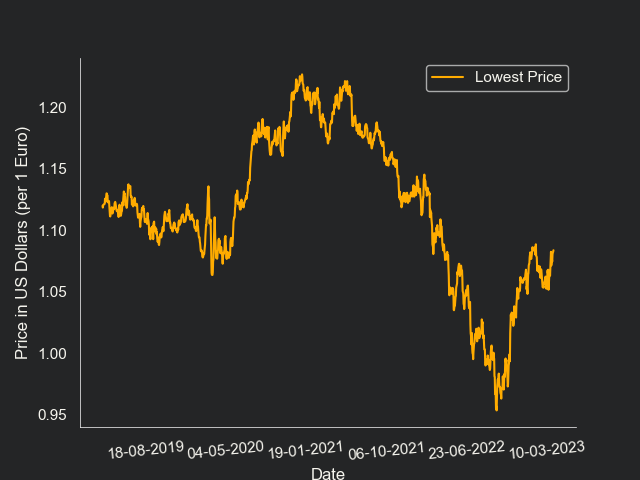
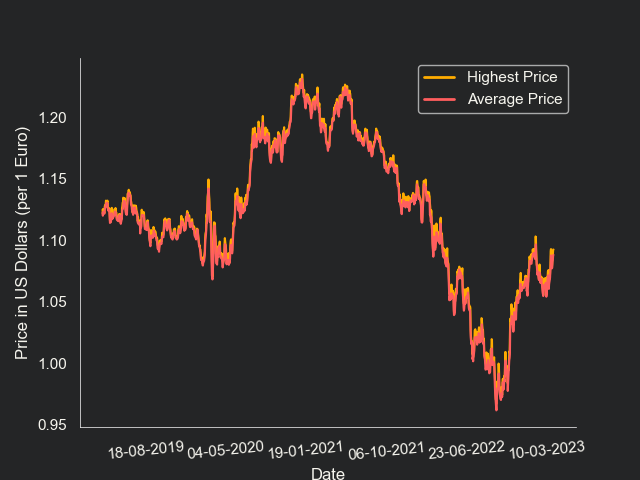
Added multiple line graphs

diff --git a/frontend/app.js b/frontend/app.js
@@ -6,16 +6,15 @@ function generateGraph() {
     var selectedValue_data_type = selectElement.value;
 
     // Assuming you have the radio button elements with the same name attribute
-    var radioButtons = document.getElementsByName("price");
+    var checkboxButtons = document.getElementsByName("price");
 
     // Initialize a variable to store the selected value
-    var selectedValue_price;
+    var selectedValue_price = ["","",""];
 
     // Loop through the radio buttons to find the selected one
-    for (var i = 0; i < radioButtons.length; i++) {
-        if (radioButtons[i].checked) {
-            selectedValue_price = radioButtons[i].value;
-            break; // Exit the loop once a checked radio button is found
+    for (var i = 0; i < checkboxButtons.length; i++) {
+        if (checkboxButtons[i].checked) {
+            selectedValue_price[i] = checkboxButtons[i].value;
         }
     }
     // Assuming you have the radio button elements with the same name attribute

diff --git a/frontend/index.html b/frontend/index.html
@@ -38,13 +38,13 @@
                 <div class="subtitle">Prices</div>
                 <br>
                 <label>
-                    <input type="radio" name="price" value="High"> High
+                    <input type="checkbox" name="price" value="High"> High
                 </label>
                 <label>
-                    <input type="radio" name="price" value="Low"> Low
+                    <input type="checkbox" name="price" value="Low"> Low
                 </label>
                 <label>
-                    <input type="radio" name="price" value="Avg" checked> Average
+                    <input type="checkbox" name="price" value="Avg" checked> Average
                 </label>
             </div>
             

diff --git a/frontend/styles.css b/frontend/styles.css
@@ -38,8 +38,6 @@ body {
     padding: 10px;
 }
 
-/* Rest of your CSS styles... */
-
 /* Style for the graph options container */
 #graphOptionsContainer {
     max-width: 1000px;

diff --git a/Backend/plot.py b/Backend/plot.py
@@ -1,28 +1,38 @@
 import matplotlib.pyplot as plt, matplotlib.dates as mdates
 import seaborn as sns
 import pandas as pd
+from matplotlib.lines import Line2D
 
 
-def plot_graph(working_directory, csv_name,table, date_type, price_type, y_axis):
-    legend = ""
+def plot_graph(working_directory, csv_name, table, date_type, price_types, y_axis):
+    print("Starting render")
+    legend = ["", "", ""]
     df = pd.read_csv(working_directory + 'fy19-23/' + csv_name)
     df['Date'] = pd.to_datetime(df['Date'], format='%Y%m%d')
     # data_type = 'Y', 'M', 'D'
     # price_type = 'High', 'Low', 'Avg'
-    if price_type == 'High':
-        d = df.groupby(pd.Grouper(key='Date', freq=date_type))[price_type].max()
-        table['Highest Price'] = d
-        legend = 'Highest Price'
-    elif price_type == 'Low':
-        d = df.groupby(pd.Grouper(key='Date', freq=date_type))[price_type].min()
-        table['Lowest Price'] = d
-        legend = 'Lowest Price'
-    else:
-        d = df.groupby(pd.Grouper(key='Date', freq=date_type))[['Open','High','Low','Close']].mean().iloc[:,:].mean(axis=1)
-        table['Average Price'] = d
-        legend = 'Average Price'
+    counter = 0
 
-    table["Date"] = table.index
+    print("While loop")
+    while counter < len(price_types):
+        print("Run ", counter)
+        if price_types[counter] == 'High':
+            d = df.groupby(pd.Grouper(key='Date', freq=date_type))[price_types[counter]].max()
+            table[counter]['Highest Price'] = d
+            legend[counter] = 'Highest Price'
+        elif price_types[counter] == 'Low':
+            d = df.groupby(pd.Grouper(key='Date', freq=date_type))[price_types[counter]].min()
+            table[counter]['Lowest Price'] = d
+            legend[counter] = 'Lowest Price'
+        else:
+            d = df.groupby(pd.Grouper(key='Date', freq=date_type))[['Open','High','Low','Close']].mean().iloc[:,:].mean(axis=1)
+            table[counter]['Average Price'] = d
+            legend[counter] = 'Average Price'
+
+        table[counter]["Date"] = table[counter].index
+        counter = counter + 1
+
+    print("After while loop")
 
     sns.set(rc={'axes.facecolor': '#242526',
                 'axes.labelcolor':'#F6F5EE',
@@ -35,10 +45,34 @@ def plot_graph(working_directory, csv_name,table, date_type, price_type, y_axis)
                 'grid.color': '#242526',
                 'figure.facecolor': '#242526',
                 'text.color':'#F6F5EE'})
-    sns.set_palette(["#ffac00"])
+    #sns.set_palette(["#ffac00", "#990000", "#009900"])
     #print(pd.melt(table, ['Date']))
-    sns.lineplot(x='Date', y='value', hue='variable',data=pd.melt(table, ['Date']))
-    plt.legend(labels=[legend])
+    price_labels = {
+        'High': 'Highest Price',
+        'Low': 'Lowest Price',
+        'Avg': 'Average Price',
+    }
+
+    palettes = ["#ffac00", "#FF5E5E", "#029666"]
+
+    legend_labels = []
+    legend_colors = []
+
+    counter = 0
+    while counter < len(price_types):
+        sns.set_palette([palettes[counter]])
+        sns.lineplot(x='Date', y='value', hue='variable',data=pd.melt(table[counter], ['Date']))
+
+        # preparing labels
+        legend_labels.append(legend[counter])
+        legend_colors.append(palettes[counter])
+        
+        counter = counter + 1
+
+    legend_objects = [Line2D([0], [0], color=color, lw=2, label=label) for label, color in zip(legend_labels, legend_colors)]
+
+    plt.legend(handles=legend_objects)
+
     if date_type == 'M':
         plt.gca().xaxis.set_major_formatter(mdates.DateFormatter('%m-%Y'))
         plt.xlabel("Month")

diff --git a/Backend/app.py b/Backend/app.py
@@ -20,8 +20,20 @@ def get_image():
     #image_path = image_directory + '/pyramid_image.jpeg'
 
     data_type = request.args.get('data_type')
-    price = request.args.get('price')
+    price = request.args.get('price').split(',')
     time = request.args.get('time')
+
+    print(price)
+
+    price_no_empty = []
+
+    for price_temp in price:
+        if price_temp != "":
+            price_no_empty.append(price_temp)
+            print("Added", price_temp)
+        print("Not added", price_temp, "!")
+
+    print(price_no_empty)
 
     data_type_from = data_type[:3]
     data_type_to = data_type[3:]
@@ -40,8 +52,11 @@ def get_image():
     else:
         x_axis = "Unknown"
 
-    table = pd.DataFrame()
-    new_file_name = plot_graph(image_directory, data_type + '.csv', table, time, price, y_axis)
+    table = [pd.DataFrame(), pd.DataFrame(), pd.DataFrame()]
+
+    #price = ["Avg", "High"]
+
+    new_file_name = plot_graph(image_directory, data_type + '.csv', table, time, price_no_empty, y_axis)
 
     image_path = image_directory + new_file_name
 
